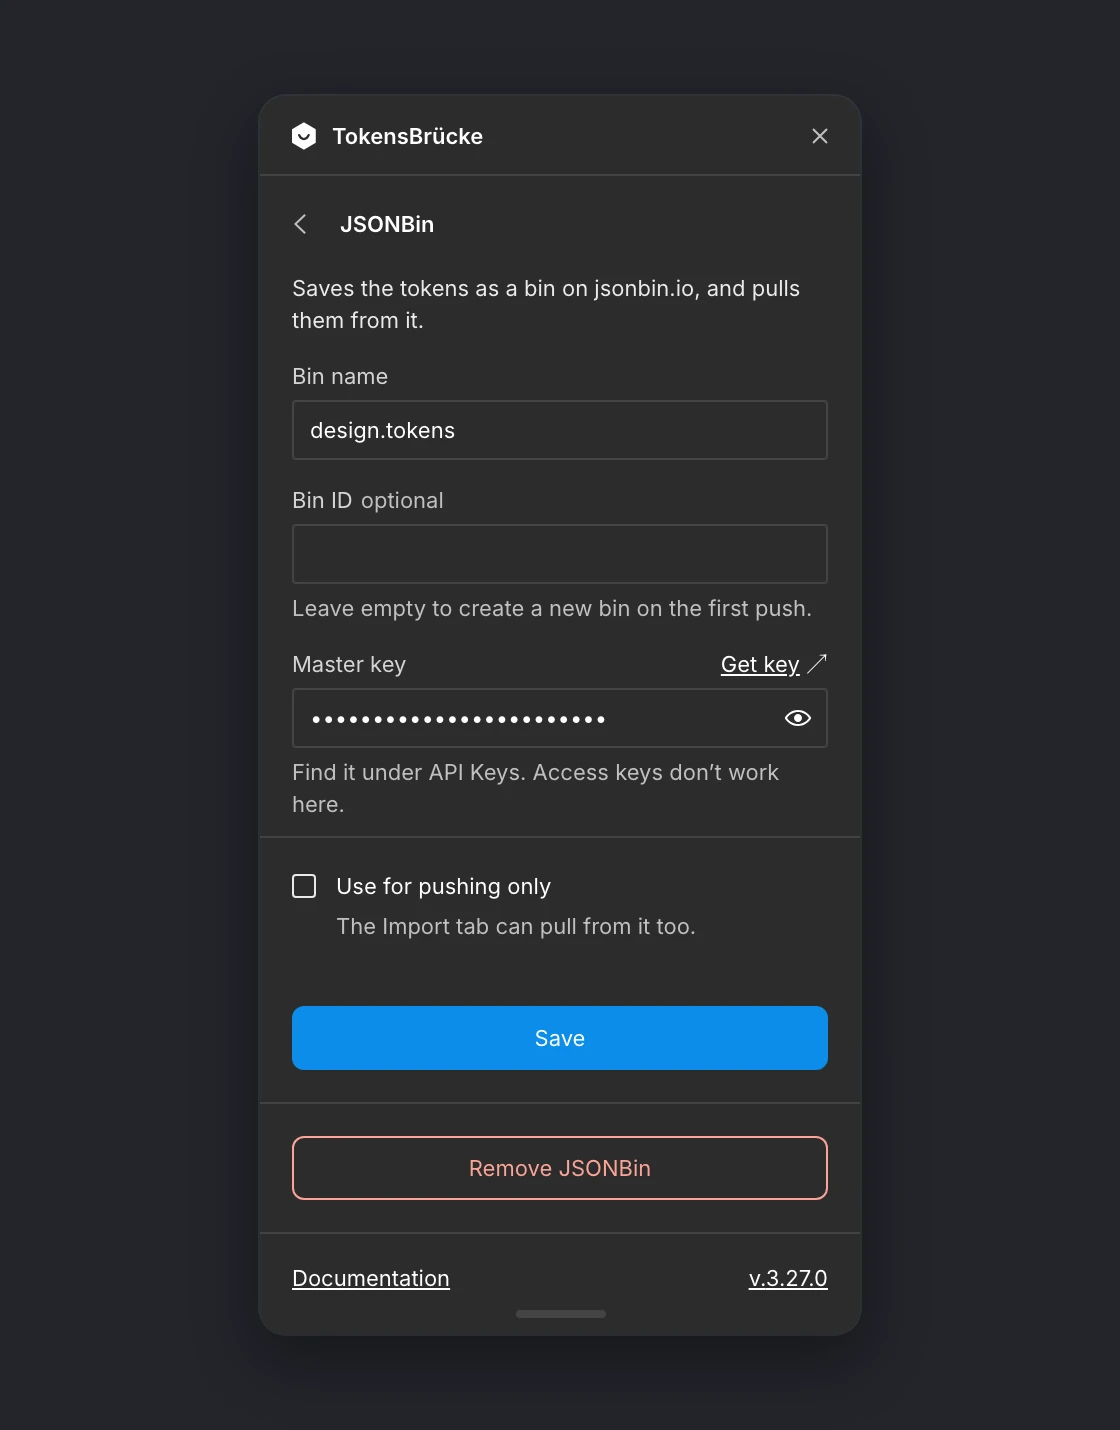
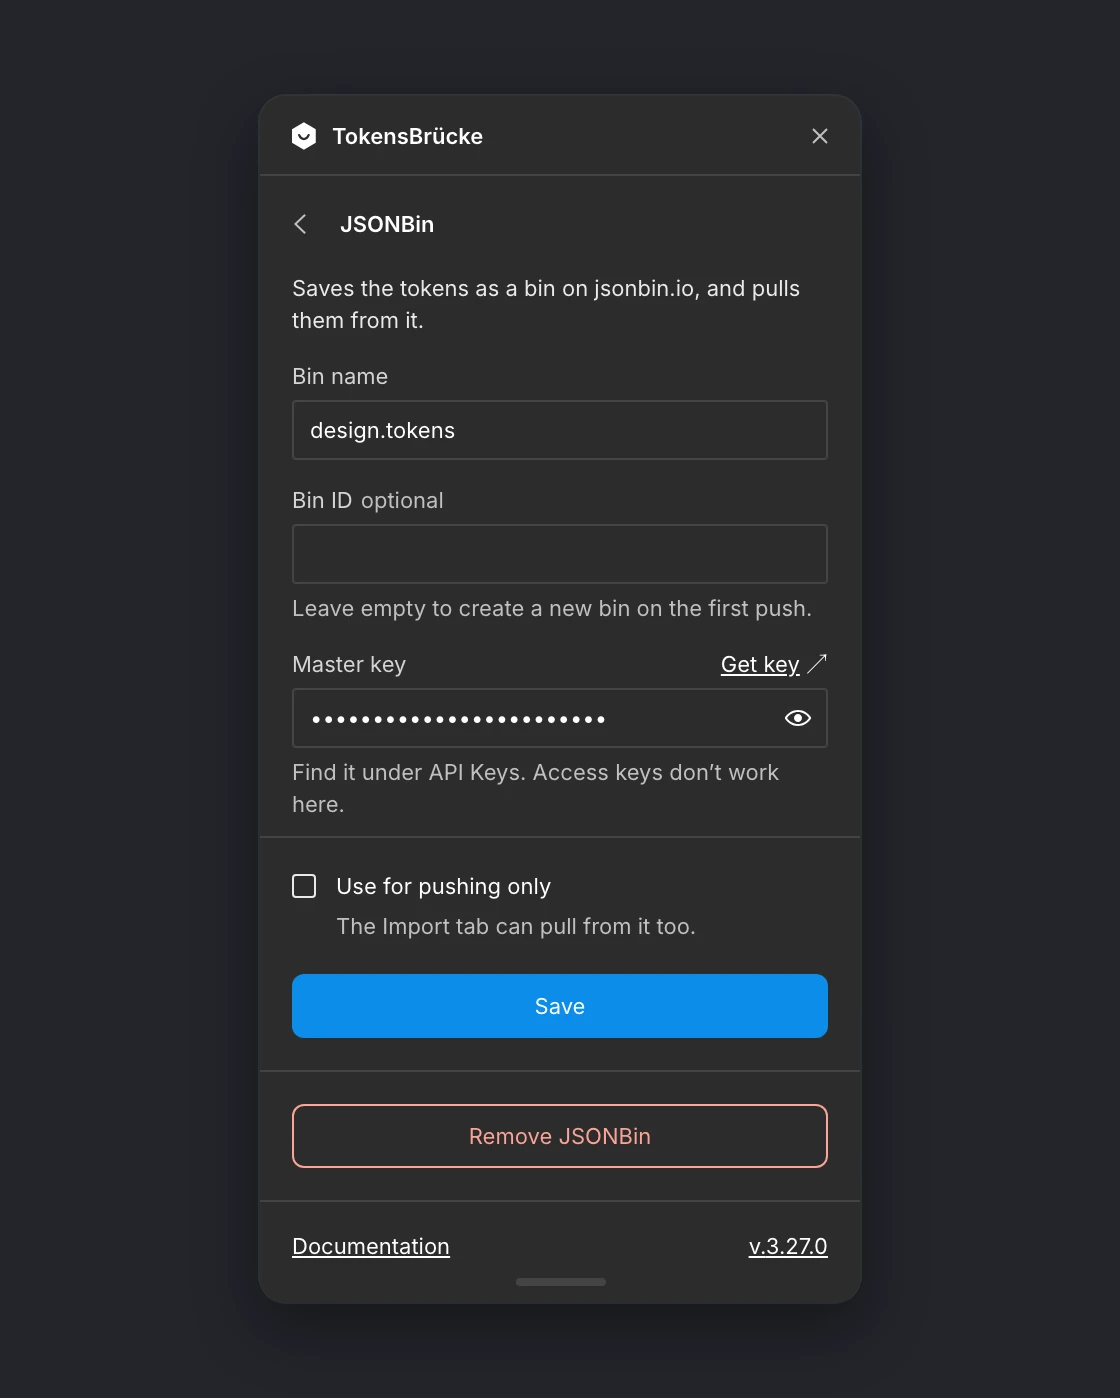
fix(plugin): tighten the gap above Save without More options

diff --git a/src/app/views/ServerSettingsView/styles.module.scss b/src/app/views/ServerSettingsView/styles.module.scss
@@ -50,6 +50,12 @@
   padding-bottom: var(--space-medium);
 }
 
+// Without More options in between, no line separates the checkbox from
+// the buttons, so one 16 px gap is enough
+.onlySection + .section {
+  padding-top: 0;
+}
+
 // The last field of More options ends as far from the line as the others
 .moreFields {
   padding-bottom: var(--space-extra-small);
